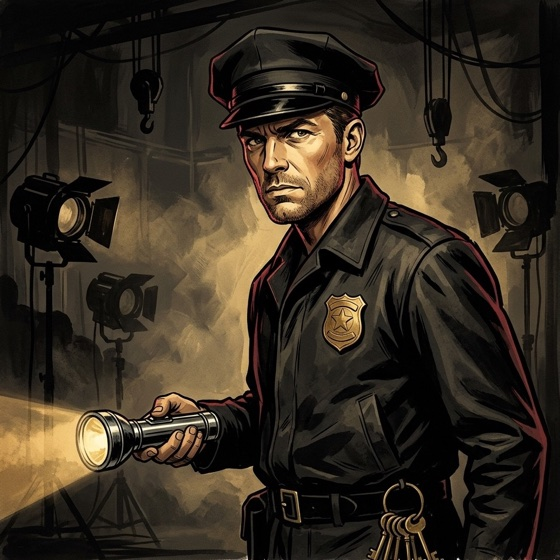
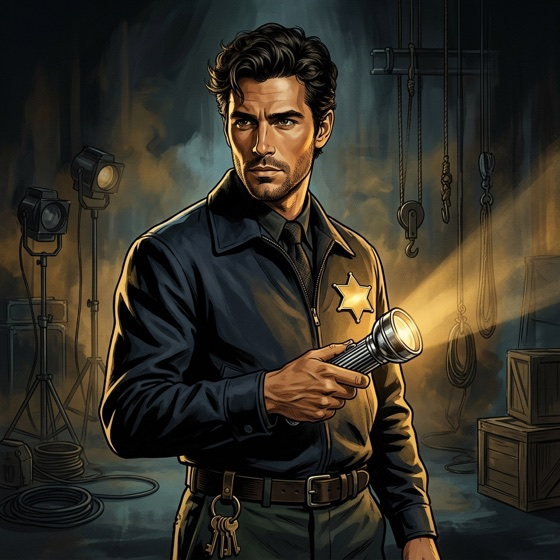
feat: add character images and update image mapping in game data

diff --git a/index.html b/index.html
@@ -839,7 +839,13 @@
         };
 
         const charImages = {
-            jack: "img/jack.jpg"
+            jack: "img/jack.jpg",
+            evelyn: "img/evelyn.jpg",
+            betty: "img/betty.jpg",
+            al: "img/al.jpg",
+            irma: "img/irma.jpg",
+            anne: "img/anne.jpg",
+            sylvia: "img/sylvia.jpg"
         };
 
         const GAME_DATA = {
